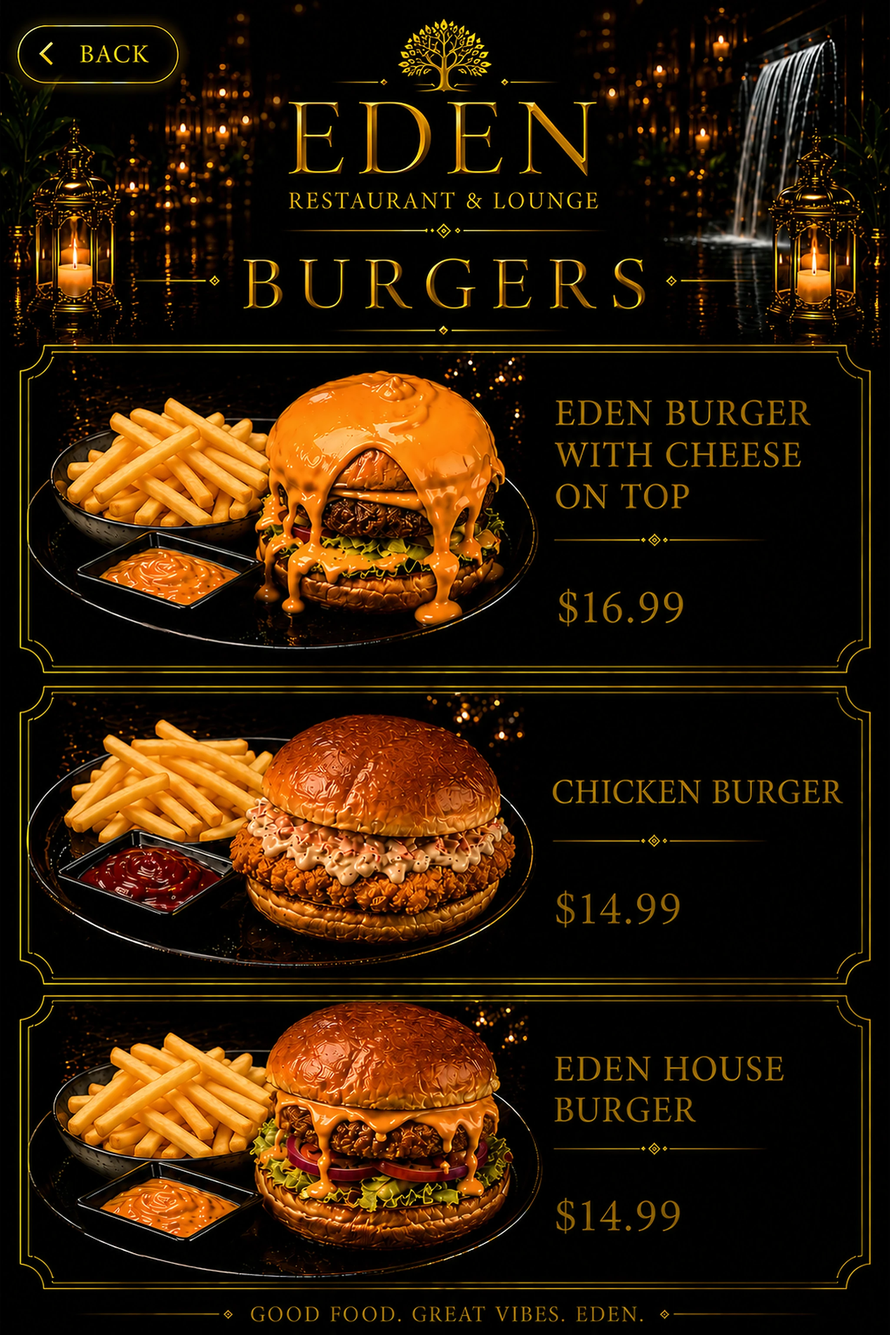
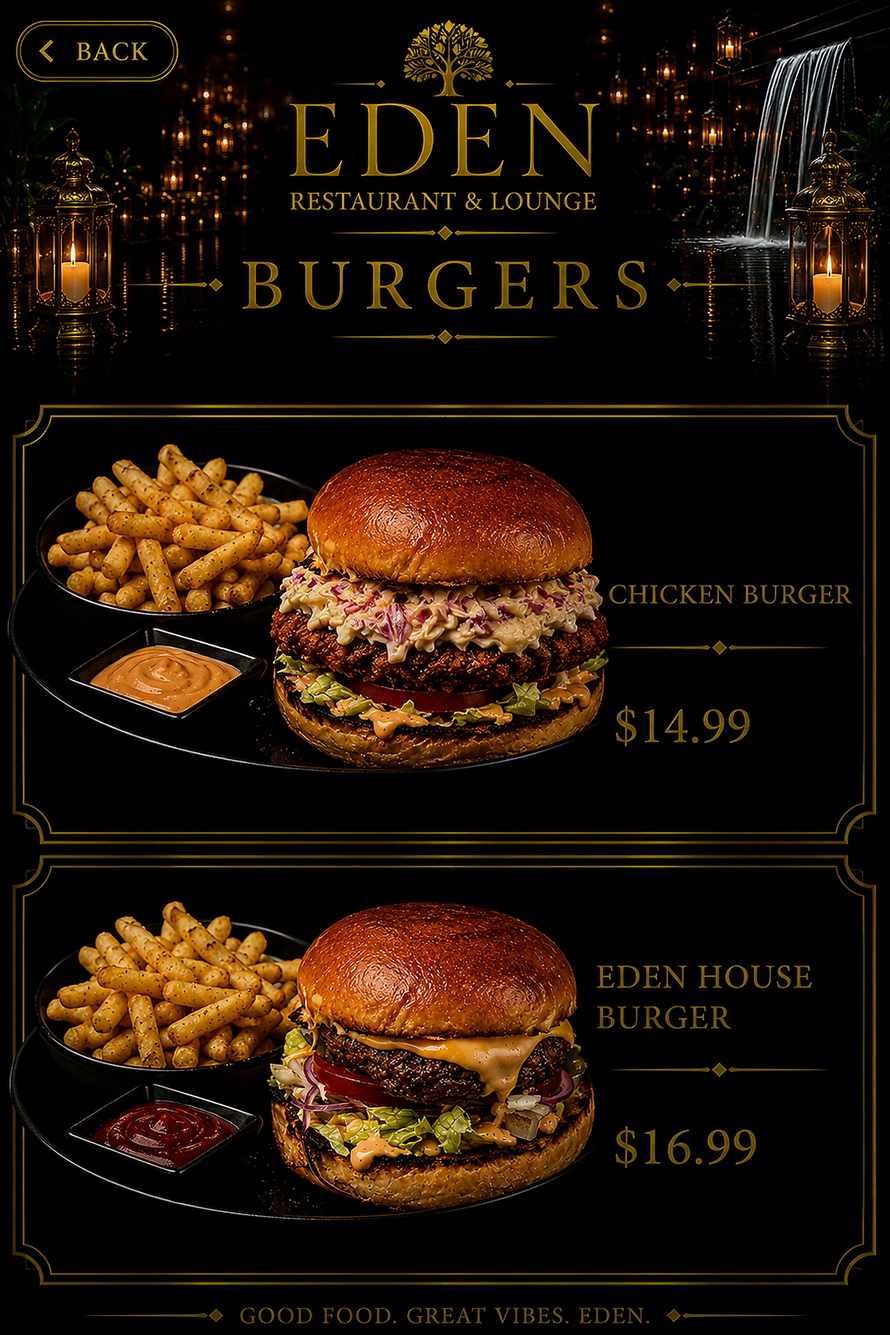
Update burger menu page

diff --git a/script.js b/script.js
@@ -122,7 +122,7 @@ const sectionPages = {
     alt: "EDEN appetizers page"
   },
   Burgers: {
-    src: "assets/burgers-new-page-4k.webp",
+    src: "assets/burgers-new-page-4k.webp?v=20260618-burgers2",
     alt: "EDEN burgers page"
   },
   Shawarma: {
@@ -399,31 +399,22 @@ const itemGroups = {
   ],
   Burgers: [
     {
-      id: "eden-burger-cheese",
-      name: "Eden Burger with Cheese on Top",
-      price: "$16.99",
-      image: "assets/detail-burger-cheese-4k.webp",
-      description: "Premium beef, melted cheddar crown, fresh lettuce, tomato, onion, Eden sauce, and fries.",
-      ingredients: ["beef patty", "cheddar cheese", "lettuce", "tomato", "onion", "Eden sauce", "fries"],
-      hotspot: { x: 2.2, y: 26.3, w: 95.8, h: 23.6 }
-    },
-    {
       id: "chicken-burger",
       name: "Chicken Burger",
       price: "$14.99",
       image: "assets/detail-burger-chicken-4k.webp",
       description: "Crispy chicken, creamy slaw, toasted brioche, fries, and house ketchup.",
       ingredients: ["crispy chicken", "creamy slaw", "brioche bun", "fries", "ketchup"],
-      hotspot: { x: 2.2, y: 51.4, w: 95.8, h: 22.3 }
+      hotspot: { x: 2.2, y: 30.4, w: 95.8, h: 32.8 }
     },
     {
       id: "eden-burger",
-      name: "Eden Burger",
-      price: "$14.99",
+      name: "Eden House Burger",
+      price: "$16.99",
       image: "assets/detail-burger-eden-4k.webp",
       description: "Beef patty, cheddar, lettuce, tomato, red onion, signature Eden sauce, and fries.",
       ingredients: ["beef patty", "cheddar", "lettuce", "tomato", "red onion", "Eden sauce", "fries"],
-      hotspot: { x: 2.2, y: 74.7, w: 95.8, h: 21.8 }
+      hotspot: { x: 2.2, y: 65.4, w: 95.8, h: 28.8 }
     }
   ],
   "Shawarma Lavash": [
